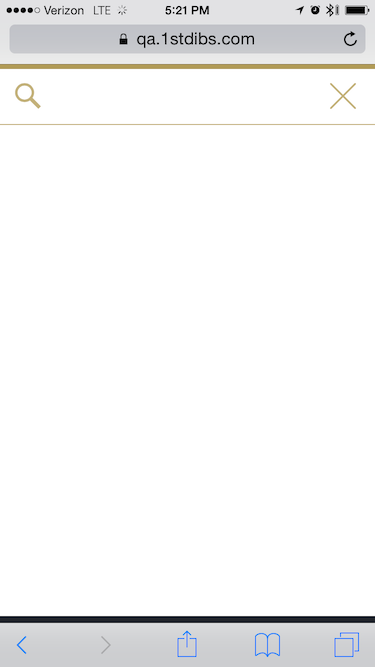
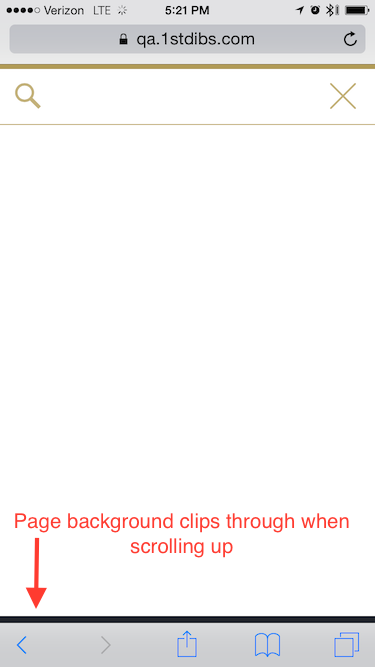
Expanding clipping description, annotating image

Changed region(s): [[0.0293, 0.7496, 0.9387, 0.9295]]

diff --git a/front-end/browser-bugs.md b/front-end/browser-bugs.md
@@ -3,7 +3,7 @@
 Date | Device Info (OS/Version, Browser/Version) | Bug Description | Other examples
 --- | --- | --- | ---
 2015-08-19 | iPhone 6/iOS 8.4/Safari, 10.10.5/Safari 8.0.8 | Repeated clicks on toggling nav elements will intermittently stop responding | <http://www.techcrunch.com/>, <http://www.bloomberg.com/>
-2015-08-19 | iPhone 6/iOS 8.4/Safari, 10.10.5/Safari 8.0.8 | Scrolling a fixed position div will clip the background color of the page through to the front | <http://www.westelm.com/>, <http://www.bloomberg.com/>
+2015-08-19 | iPhone 6/iOS 8.4/Safari, 10.10.5/Safari 8.0.8 | Scrolling a fixed position div down may clip the background color of the page through to the front (manifests as a colored bar at the bottom of the screen, see the screenshot below) | <http://www.westelm.com/>, <http://www.bloomberg.com/>
 
 ## Sample screenshots
 
